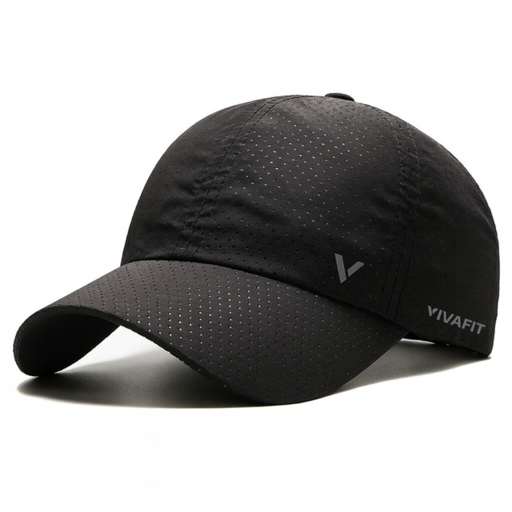
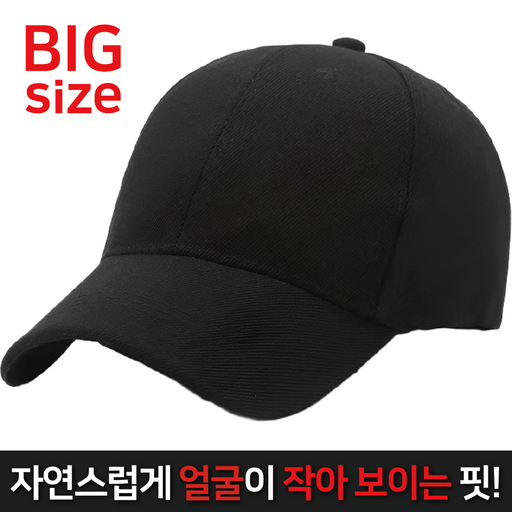
Add new landing page: 모자

diff --git a/src/app/moja/page.tsx b/src/app/moja/page.tsx
@@ -1,65 +1,72 @@
 import { Metadata } from "next";
 
 export const metadata: Metadata = {
-  title: "비바핏 남녀공용 무지 스포츠 메쉬 대두 볼캡 모자 솔직 후기: 큰 머리도 편안하게!",
-  description: "큰 머리도 걱정 없는 비바핏 대두 볼캡! 스포츠 활동부터 일상까지, 시원하고 편안한 착용감을 선사하는 무지 메쉬 모자 실사용 후기를 확인하세요.",
-  keywords: ["모자", "볼캡", "대두 볼캡", "스포츠 모자", "메쉬 모자", "비바핏 모자", "남녀공용 모자", "여름 모자"],
+  title: "이더커머스 남녀공용 빅사이즈 무지 대두 볼캡 솔직 후기: 큰 머리도 편안하게!",
+  description: "큰 머리 때문에 모자 선택이 어려우셨나요? 이더커머스 빅사이즈 무지 볼캡을 직접 사용해보고 솔직한 착용감과 장단점을 공유합니다. 넉넉한 핏과 가성비, 로켓배송까지!",
+  keywords: ["모자", "볼캡", "빅사이즈 모자", "대두 볼캡", "무지 볼캡", "이더커머스 모자", "쿠팡 모자", "가성비 모자", "남녀공용 모자"],
   robots: { index: true, follow: true },
-  alternates: { canonical: "https://yeongyangje-coupang.vercel.app/moja" },
+  alternates: { canonical: "https://www.dmcmusic.co.kr/moja" },
   openGraph: {
-    type: "article",
+    type: "website",
     locale: "ko_KR",
-    siteName: "비바핏 남녀공용 무지 스포츠 메쉬 대두 볼캡 모자",
-    title: "비바핏 남녀공용 무지 스포츠 메쉬 대두 볼캡 모자 솔직 후기: 큰 머리도 편안하게!",
-    description: "큰 머리도 걱정 없는 비바핏 대두 볼캡! 스포츠 활동부터 일상까지, 시원하고 편안한 착용감을 선사하는 무지 메쉬 모자 실사용 후기를 확인하세요.",
-    url: "https://yeongyangje-coupang.vercel.app/moja",
-    images: [{ url: "https://yeongyangje-coupang.vercel.app/images/coupang/moja/product.jpg" }],
+    siteName: "모자",
+    title: "이더커머스 남녀공용 빅사이즈 무지 대두 볼캡 솔직 후기: 큰 머리도 편안하게!",
+    description: "큰 머리 때문에 모자 선택이 어려우셨나요? 이더커머스 빅사이즈 무지 볼캡을 직접 사용해보고 솔직한 착용감과 장단점을 공유합니다. 넉넉한 핏과 가성비, 로켓배송까지!",
+    url: "https://www.dmcmusic.co.kr/moja",
+    images: [{ url: "https://www.dmcmusic.co.kr/images/coupang/moja/product.jpg" }],
   },
   twitter: {
     card: "summary_large_image",
-    title: "비바핏 남녀공용 무지 스포츠 메쉬 대두 볼캡 모자 솔직 후기: 큰 머리도 편안하게!",
-    description: "큰 머리도 걱정 없는 비바핏 대두 볼캡! 스포츠 활동부터 일상까지, 시원하고 편안한 착용감을 선사하는 무지 메쉬 모자 실사용 후기를 확인하세요.",
-    images: ["https://yeongyangje-coupang.vercel.app/images/coupang/moja/product.jpg"],
+    title: "이더커머스 남녀공용 빅사이즈 무지 대두 볼캡 솔직 후기: 큰 머리도 편안하게!",
+    description: "큰 머리 때문에 모자 선택이 어려우셨나요? 이더커머스 빅사이즈 무지 볼캡을 직접 사용해보고 솔직한 착용감과 장단점을 공유합니다. 넉넉한 핏과 가성비, 로켓배송까지!",
+    images: ["https://www.dmcmusic.co.kr/images/coupang/moja/product.jpg"],
   },
 };
 
 const jsonLd = {
   "@context": "https://schema.org",
-  "@graph": [
-    {
-      "@type": "Product",
-      "name": "비바핏 남녀공용 무지 스포츠 메쉬 대두 볼캡 모자",
-      "image": "https://yeongyangje-coupang.vercel.app/images/coupang/moja/product.jpg",
-      "description": "큰 머리도 걱정 없는 비바핏 대두 볼캡! 스포츠 활동부터 일상까지, 시원하고 편안한 착용감을 선사하는 무지 메쉬 모자 실사용 후기를 확인하세요.",
-      "offers": {
-        "@type": "Offer",
-        "price": 19900,
-        "priceCurrency": "KRW",
-        "availability": "https://schema.org/InStock",
-        "url": "https://link.coupang.com/re/AFFSDP?lptag=AF4771282&pageKey=8966171675&itemId=27530252819&vendorItemId=94501633714&traceid=V0-153-3edf3f34eeb1327c&clickBeacon=5405ef70-6ee4-11f1-8d93-e1b9eb821c6c%7E3&requestid=20260623181716620283668277&token=31850C%7CMIXED"
+  "@type": "WebPage",
+  "name": "이더커머스 남녀공용 빅사이즈 무지 대두 볼캡 솔직 후기: 큰 머리도 편안하게!",
+  "description": "큰 머리 때문에 모자 선택이 어려우셨나요? 이더커머스 빅사이즈 무지 볼캡을 직접 사용해보고 솔직한 착용감과 장단점을 공유합니다. 넉넉한 핏과 가성비, 로켓배송까지!",
+  "url": "https://www.dmcmusic.co.kr/moja",
+  "inLanguage": "ko-KR",
+  "isPartOf": {
+    "@type": "WebSite",
+    "name": "모자",
+    "url": "https://www.dmcmusic.co.kr"
+  },
+  "mainEntity": {
+    "@type": "FAQPage",
+    "mainEntity": [
+      {
+        "@type": "Question",
+        "name": "Q: 정말 머리 큰 사람도 편하게 쓸 수 있나요?",
+        "acceptedAnswer": {
+          "@type": "Answer",
+          "text": "A: 네, 저도 머리 둘레가 큰 편인데 전혀 조임 없이 편안하게 착용했습니다. 조절 스트랩도 넉넉해서 웬만한 빅사이즈 두상에는 모두 잘 맞을 거예요."
+        }
+      },
+      {
+        "@type": "Question",
+        "name": "Q: 소재는 어떤가요? 가격이 저렴해서 걱정되네요.",
+        "acceptedAnswer": {
+          "@type": "Answer",
+          "text": "A: 면 100% 소재로 부드럽고 가벼운 편입니다. 아주 두껍거나 고급스러운 느낌은 아니지만, 땀 흡수도 잘 되고 통기성도 괜찮아서 데일리로 부담 없이 사용하기 좋습니다. 가격 대비 만족스러운 퀄리티입니다."
+        }
+      },
+      {
+        "@type": "Question",
+        "name": "Q: 사계절 착용이 가능할까요?",
+        "acceptedAnswer": {
+          "@type": "Answer",
+          "text": "A: 소재가 너무 두껍지 않아 봄, 여름, 가을에 특히 좋습니다. 한겨울에는 다소 얇게 느껴질 수 있지만, 실내나 가벼운 외출 시에는 충분히 착용 가능합니다. 여름철 햇빛 가리기에는 아주 적합합니다."
+        }
       }
-    },
-    {
-      "@type": "Review",
-      "itemReviewed": {
-        "@type": "Product",
-        "name": "비바핏 남녀공용 무지 스포츠 메쉬 대두 볼캡 모자"
-      },
-      "reviewRating": {
-        "@type": "Rating",
-        "ratingValue": 4.3,
-        "bestRating": 5
-      },
-      "author": {
-        "@type": "Person",
-        "name": "실사용 리뷰어"
-      },
-      "reviewBody": "비바핏 남녀공용 무지 스포츠 메쉬 대두 볼캡 모자는 '대두핏'이라는 이름에 걸맞게 편안함과 실용성을 모두 잡은 제품이라고 생각해요. 착용감, 통기성, 디자인 모두 만족스러웠고, 특히 저처럼 모자 선택에 어려움을 겪으셨던 분들에게는 정말 좋은 대안이 될 것 같습니다. 19,900원이라는 합리적인 가격에 로켓배송으로 빠르게 받아볼 수 있다는 점도 큰 장점이에요. 여름 모자로 강력 추천합니다!"
-    }
-  ]
+    ]
+  }
 };
-const pageStyles = ":root {\n  --bg: #faf8f4;\n  --card: #ffffff;\n  --text: #1c1917;\n  --muted: #78716c;\n  --accent: #e23744;\n  --accent-dark: #c62828;\n  --border: #e8dfd4;\n  --pro: #15803d;\n  --con: #b45309;\n}\n.coupang-review-root { box-sizing: border-box; }\n.coupang-review-root * { box-sizing: border-box; }\n.coupang-review-root {\n  font-family: \"Noto Sans KR\", sans-serif;\n  background: var(--bg);\n  color: var(--text);\n  line-height: 1.7;\n  padding-bottom: 5rem;\n  min-height: 100vh;\n}\n.partner-notice {\n  background: #fff8e6;\n  border-bottom: 1px solid #f0e0b0;\n  color: #6b5a2a;\n  font-size: 0.82rem;\n  text-align: center;\n  padding: 0.7rem 1rem;\n  line-height: 1.5;\n}\n.coupang-review-root .container { max-width: 760px; margin: 0 auto; padding: 1.25rem; }\n.coupang-review-root .hero {\n  background: var(--card);\n  border: 1px solid var(--border);\n  border-radius: 16px;\n  overflow: hidden;\n  box-shadow: 0 8px 30px rgba(0,0,0,.06);\n}\n.coupang-review-root .hero-img {\n  width: 100%;\n  aspect-ratio: 1;\n  object-fit: contain;\n  background: #fff;\n  display: block;\n}\n.coupang-review-root .hero-body { padding: 1.5rem; }\n.coupang-review-root .eyebrow {\n  font-size: .75rem;\n  letter-spacing: .08em;\n  text-transform: uppercase;\n  color: var(--muted);\n  margin-bottom: .5rem;\n}\n.coupang-review-root h1 {\n  font-size: 1.5rem;\n  line-height: 1.35;\n  margin: 0 0 .75rem;\n  font-weight: 700;\n}\n.coupang-review-root .price { font-size: 1.25rem; font-weight: 700; color: var(--accent); margin-bottom: .75rem; }\n.coupang-review-root .badges { display: flex; gap: .5rem; flex-wrap: wrap; margin-bottom: 1rem; }\n.coupang-review-root .badge {\n  font-size: .75rem;\n  padding: .25rem .6rem;\n  border-radius: 999px;\n  background: #fff5f5;\n  color: var(--accent);\n  border: 1px solid #fecaca;\n}\n.coupang-review-root .rating {\n  display: flex;\n  align-items: center;\n  gap: .5rem;\n  color: #f59e0b;\n  font-weight: 600;\n  margin-bottom: 1rem;\n}\n.coupang-review-root .lead { color: var(--muted); font-size: 1rem; }\n.coupang-review-root .cta {\n  display: inline-flex;\n  align-items: center;\n  justify-content: center;\n  width: 100%;\n  margin-top: 1rem;\n  padding: .95rem 1.25rem;\n  border-radius: 12px;\n  background: var(--accent);\n  color: #fff;\n  font-weight: 700;\n  text-decoration: none;\n  transition: background .2s;\n}\n.coupang-review-root .cta:hover { background: var(--accent-dark); }\n.coupang-review-root section {\n  margin-top: 1.5rem;\n  background: var(--card);\n  border: 1px solid var(--border);\n  border-radius: 16px;\n  padding: 1.5rem;\n}\n.coupang-review-root h2 { font-size: 1.15rem; margin: 0 0 1rem; }\n.coupang-review-root p { margin: 0 0 1rem; }\n.coupang-review-root p:last-child { margin-bottom: 0; }\n.coupang-review-root .pros-cons { display: grid; gap: 1rem; }\n@media (min-width: 640px) { .coupang-review-root .pros-cons { grid-template-columns: 1fr 1fr; } }\n.coupang-review-root .pros h3 { color: var(--pro); }\n.coupang-review-root .cons h3 { color: var(--con); }\n.coupang-review-root ul { margin: 0; padding-left: 1.1rem; }\n.coupang-review-root li { margin-bottom: .4rem; }\n.coupang-review-root .faq-item {\n  border-top: 1px solid var(--border);\n  padding: .9rem 0;\n}\n.coupang-review-root .faq-item summary {\n  cursor: pointer;\n  font-weight: 600;\n  list-style: none;\n}\n.coupang-review-root .faq-item summary::-webkit-details-marker { display: none; }\n.coupang-review-root .float-bar {\n  position: fixed;\n  left: 0; right: 0; bottom: 0;\n  background: rgba(255,255,255,.96);\n  border-top: 1px solid var(--border);\n  backdrop-filter: blur(8px);\n  padding: .75rem 1rem calc(.75rem + env(safe-area-inset-bottom));\n  z-index: 50;\n}\n.coupang-review-root .float-bar a {\n  display: block;\n  text-align: center;\n  background: var(--accent);\n  color: #fff;\n  text-decoration: none;\n  font-weight: 700;\n  padding: .9rem;\n  border-radius: 12px;\n}";
-const pageHtml = "<div class=\"coupang-review-root\">\n  <p class=\"partner-notice\">\n    \uc774 \ud3ec\uc2a4\ud305\uc740 \ucfe0\ud321 \ud30c\ud2b8\ub108\uc2a4 \ud65c\ub3d9\uc758 \uc77c\ud658\uc73c\ub85c, \uc774\uc5d0 \ub530\ub978 \uc77c\uc815\uc561\uc758 \uc218\uc218\ub8cc\ub97c \uc81c\uacf5\ubc1b\uc2b5\ub2c8\ub2e4.\n  </p>\n  <div class=\"container\">\n    <article class=\"hero\">\n      <img class=\"hero-img\" src=\"/images/coupang/moja/product.jpg\" alt=\"\ube44\ubc14\ud54f \ub0a8\ub140\uacf5\uc6a9 \ubb34\uc9c0 \uc2a4\ud3ec\uce20 \uba54\uc26c \ub300\ub450 \ubcfc\ucea1 \ubaa8\uc790\" loading=\"eager\" />\n      <div class=\"hero-body\">\n        <p class=\"eyebrow\">\uc2e4\uc0ac\uc6a9 \ud6c4\uae30 \u00b7 2026</p>\n        <h1>\ube44\ubc14\ud54f \ub0a8\ub140\uacf5\uc6a9 \ubb34\uc9c0 \uc2a4\ud3ec\uce20 \uba54\uc26c \ub300\ub450 \ubcfc\ucea1 \ubaa8\uc790, \uc9c1\uc811 \uc368\ubcf4\ub2c8?</h1>\n        <p class=\"price\">19,900\uc6d0</p>\n        <div class=\"badges\"><span class=\"badge\">\ub85c\ucf13\ubc30\uc1a1</span></div>\n        <div class=\"rating\"><span>\u2605\u2605\u2605\u2605\u2606</span><span>4.3</span><span>\ud070 \uba38\ub9ac\ub3c4 \ud3b8\uc548\ud558\uac8c! \uc2dc\uc6d0\ud558\uace0 \uac00\ubcbc\uc6b4 \ub370\uc77c\ub9ac \uc2a4\ud3ec\uce20 \ubcfc\ucea1.</span></div>\n        <p class=\"lead\">\uc548\ub155\ud558\uc138\uc694! \uc624\ub298\uc740 \uc81c\uac00 \uc9c1\uc811 \uad6c\ub9e4\ud574\uc11c \uafb8\uc900\ud788 \uc0ac\uc6a9\ud558\uace0 \uc788\ub294 &#x27;\ube44\ubc14\ud54f \ub0a8\ub140\uacf5\uc6a9 \ubb34\uc9c0 \uc2a4\ud3ec\uce20 \uba54\uc26c \ub300\ub450 \ubcfc\ucea1 \ubaa8\uc790&#x27;\uc5d0 \ub300\ud55c \uc194\uc9c1\ud55c \ud6c4\uae30\ub97c \ub4e4\ub824\ub4dc\ub9ac\ub824\uace0 \ud569\ub2c8\ub2e4. \ud3c9\uc18c \ubaa8\uc790\ub97c \uc990\uaca8 \uc4f0\uc9c0\ub9cc, \uba38\ub9ac \ub458\ub808 \ub54c\ubb38\uc5d0 \ub298 \uace0\ubbfc\uc774\uc5c8\ub358 \uc800\uc5d0\uac8c \ud55c \uc904\uae30 \ube5b \uac19\uc558\ub358 \uc774 \ubaa8\uc790, \uacfc\uc5f0 \uc5b4\ub560\uc744\uae4c\uc694?</p>\n        <a class=\"cta\" href=\"https://link.coupang.com/re/AFFSDP?lptag=AF4771282&amp;pageKey=8966171675&amp;itemId=27530252819&amp;vendorItemId=94501633714&amp;traceid=V0-153-3edf3f34eeb1327c&amp;clickBeacon=5405ef70-6ee4-11f1-8d93-e1b9eb821c6c%7E3&amp;requestid=20260623181716620283668277&amp;token=31850C%7CMIXED\" target=\"_blank\" rel=\"noopener noreferrer sponsored\">\ucfe0\ud321\uc5d0\uc11c \ucd5c\uc800\uac00 \ud655\uc778\ud558\uae30</a>\n      </div>\n    </article>\n    <section><h2>\uc0c1\ud488 \uc18c\uac1c</h2><p>\ubaa8\uc790\ub294 \ud328\uc158 \uc544\uc774\ud15c\uc774\uae30\ub3c4 \ud558\uc9c0\ub9cc, \ud587\ube5b\uc744 \uac00\ub9ac\uac70\ub098 \uac00\ubcbc\uc6b4 \uc6b4\ub3d9 \uc2dc \ud544\uc218\ud15c\uc774\uae30\ub3c4 \ud558\uc8e0. \ud2b9\ud788 \uc800\ucc98\ub7fc \uba38\ub9ac\uac00 \ud070 \ud3b8\uc774\ub77c \uc2dc\uc911\uc5d0 \ub098\uc628 \ubaa8\uc790\ub4e4\uc774 \uc791\uac8c \ub290\uaef4\uc9c0\uc168\ub358 \ubd84\ub4e4\uc774\ub77c\uba74 \uc624\ub298 \ud6c4\uae30\uac00 \ub354\uc6b1 \ubc18\uac00\uc6b0\uc2e4 \uac70\uc608\uc694. \ube44\ubc14\ud54f \ub300\ub450 \ubcfc\ucea1, \uc5b4\ub5a4 \uc810\uc774 \uc88b\uace0 \uc544\uc26c\uc6e0\ub294\uc9c0 \uc790\uc138\ud788 \ud30c\ud5e4\uccd0 \ubcf4\uaca0\uc2b5\ub2c8\ub2e4!</p></section>\n    <section><h2>\uc9c1\uc811 \uc368 \ubcf8 \uc0ac\uc6a9 \uacbd\ud5d8</h2><p>\uc800\ub294 \uc8fc\ub85c \uc0b0\ucc45\uc774\ub098 \uac00\ubcbc\uc6b4 \uc870\uae45\uc744 \ud560 \ub54c, \uadf8\ub9ac\uace0 \uc8fc\ub9d0\uc5d0 \uce90\uc8fc\uc5bc\ud558\uac8c \uc678\ucd9c\ud560 \ub54c \uc774 \ubaa8\uc790\ub97c \ucc29\uc6a9\ud558\uace0 \uc788\uc5b4\uc694. \uac00\uc7a5 \ub9cc\uc871\uc2a4\ub7ec\uc6e0\ub358 \uc810\uc740 \uc5ed\uc2dc &#x27;\ub300\ub450\ud54f&#x27;\uc774\ub77c\ub294 \uc774\ub984\uac12 \uc81c\ub300\ub85c \ud558\ub294 \ub109\ub109\ud568\uc774\uc5c8\uc5b4\uc694. \ubcf4\ud1b5 \ubaa8\uc790\ub97c \uc4f0\uba74 \uadc0\uac00 \uc811\ud788\uac70\ub098 \uc774\ub9c8\uac00 \ub20c\ub824\uc11c \ubd88\ud3b8\ud588\ub294\ub370, \uc774 \ubaa8\uc790\ub294 \uadf8\ub7f0 \uac71\uc815 \uc5c6\uc774 \ud3b8\uc548\ud558\uac8c \uba38\ub9ac\ub97c \uac10\uc2f8\uc918\uc11c \uc88b\uc558\uc5b4\uc694. \ud1b5\uae30\uc131 \uc88b\uc740 \uba54\uc26c \uc18c\uc7ac \ub355\ubd84\uc5d0 \ub540\uc774 \ub098\ub3c4 \uae08\ubc29 \ub9c8\ub974\uace0, \ubc14\ub78c\uc774 \uc194\uc194 \ud1b5\ud574 \uc2dc\uc6d0\ud55c \ub290\ub08c\uc774 \ub4e4\uc5c8\uc2b5\ub2c8\ub2e4. \ud2b9\ud788 \uc5ec\ub984\ucca0 \uc57c\uc678 \ud65c\ub3d9 \uc2dc \uc815\ub9d0 \uc720\uc6a9\ud588\uc5b4\uc694. \ubb34\uc9c0 \ub514\uc790\uc778\uc774\ub77c \uc5b4\ub5a4 \uc637\uc5d0\ub3c4 \ubb34\ub09c\ud558\uac8c \uc798 \uc5b4\uc6b8\ub824\uc11c \ucf54\ub514 \uac71\uc815 \uc5c6\uc774 \uc190\uc774 \uc790\uc8fc \uac00\ub294 \uc544\uc774\ud15c\uc774 \ub418\uc5c8\ub2f5\ub2c8\ub2e4. \ub2e4\ub9cc, \ubc1d\uc740 \uc0c9\uc0c1\uc740 \uc624\uc5fc\uc5d0 \uc870\uae08 \ucde8\uc57d\ud560 \uc218 \uc788\uc73c\ub2c8 \uad00\ub9ac\uc5d0 \uc2e0\uacbd \uc4f0\ub294 \uac83\uc774 \uc88b\uc2b5\ub2c8\ub2e4.</p></section>\n    <section class=\"pros-cons\">\n      <div class=\"pros\"><h3>\ud83d\udc4d \uc7a5\uc810</h3><ul><li>\ub109\ub109\ud55c \ub300\ub450\ud54f: \uba38\ub9ac\uac00 \ud070 \ud3b8\uc778\ub370\ub3c4 \uc870\uc774\uac70\ub098 \ubd88\ud3b8\ud568 \uc5c6\uc774 \ud3b8\uc548\ud558\uac8c \ucc29\uc6a9 \uac00\ub2a5\ud574\uc694.</li>\n<li>\ub6f0\uc5b4\ub09c \ud1b5\uae30\uc131: \uba54\uc26c \uc18c\uc7ac \ub355\ubd84\uc5d0 \ub540\uc774 \ub098\ub3c4 \uc2dc\uc6d0\ud558\uace0 \ub2f5\ub2f5\ud568\uc774 \ub35c\ud569\ub2c8\ub2e4.</li>\n<li>\uac00\ubccd\uace0 \ud3b8\uc548\ud55c \ucc29\uc6a9\uac10: \uc7a5\uc2dc\uac04 \ucc29\uc6a9\ud574\ub3c4 \ubb34\uac8c\uac10\uc774 \uac70\uc758 \ub290\uaef4\uc9c0\uc9c0 \uc54a\uc544 \ubd80\ub2f4 \uc5c6\uc5b4\uc694.</li>\n<li>\ubb34\ub09c\ud55c \ub514\uc790\uc778: \uc2ec\ud50c\ud55c \ubb34\uc9c0 \ub514\uc790\uc778\uc774\ub77c \uc5b4\ub5a4 \uc637\ucc28\ub9bc\uc5d0\ub3c4 \uc798 \uc5b4\uc6b8\ub824 \ud65c\uc6a9\ub3c4\uac00 \ub192\uc544\uc694.</li></ul></div>\n      <div class=\"cons\"><h3>\ud83d\udc4e \uc544\uc26c\uc6b4 \uc810</h3><ul><li>\uc0c9\uc0c1 \uc120\ud0dd\uc758 \ud3ed\uc774 \uc881\uc74c: \ubb34\uc9c0 \ub514\uc790\uc778\uc740 \uc88b\uc9c0\ub9cc, \uc880 \ub354 \ub2e4\uc591\ud55c \uc0c9\uc0c1\uc774 \uc788\uc5c8\uc73c\uba74 \uc88b\uaca0\uc5b4\uc694.</li>\n<li>\uc138\ud0c1 \uc2dc \uc57d\uac04\uc758 \uc8fc\uc758 \ud544\uc694: \uba54\uc26c \uc18c\uc7ac\ub77c \uc870\uc2ec\uc2a4\ub7fd\uac8c \uc190\uc138\ud0c1\ud574\uc57c \ud615\ud0dc \ubcc0\ud615\uc744 \uc904\uc77c \uc218 \uc788\uc5b4\uc694.</li></ul></div>\n    </section>\n    <section><h2>\uc774\ub7f0 \ubd84\uaed8 \ucd94\ucc9c</h2><p>\uba38\ub9ac \ub458\ub808 \ub54c\ubb38\uc5d0 \uc77c\ubc18 \ubaa8\uc790\uac00 \ubd88\ud3b8\ud558\uc168\ub358 \ubd84, \uc57c\uc678 \ud65c\ub3d9\uc774\ub098 \uc2a4\ud3ec\uce20\ub97c \uc990\uae30\uc2dc\ub294 \ubd84, \uac00\ubccd\uace0 \ud1b5\uae30\uc131 \uc88b\uc740 \ubaa8\uc790\ub97c \ucc3e\uc73c\uc2dc\ub294 \ubd84, \uc2ec\ud50c\ud55c \ub514\uc790\uc778\uc73c\ub85c \ub370\uc77c\ub9ac \ubaa8\uc790\ub97c \uc6d0\ud558\uc2dc\ub294 \ubd84\uaed8 \uac15\ub825 \ucd94\ucc9c\ud569\ub2c8\ub2e4.</p></section>\n    <section><h2>\ucd1d\ud3c9</h2><p>\ube44\ubc14\ud54f \ub0a8\ub140\uacf5\uc6a9 \ubb34\uc9c0 \uc2a4\ud3ec\uce20 \uba54\uc26c \ub300\ub450 \ubcfc\ucea1 \ubaa8\uc790\ub294 &#x27;\ub300\ub450\ud54f&#x27;\uc774\ub77c\ub294 \uc774\ub984\uc5d0 \uac78\ub9de\uac8c \ud3b8\uc548\ud568\uacfc \uc2e4\uc6a9\uc131\uc744 \ubaa8\ub450 \uc7a1\uc740 \uc81c\ud488\uc774\ub77c\uace0 \uc0dd\uac01\ud574\uc694. \ucc29\uc6a9\uac10, \ud1b5\uae30\uc131, \ub514\uc790\uc778 \ubaa8\ub450 \ub9cc\uc871\uc2a4\ub7ec\uc6e0\uace0, \ud2b9\ud788 \uc800\ucc98\ub7fc \ubaa8\uc790 \uc120\ud0dd\uc5d0 \uc5b4\ub824\uc6c0\uc744 \uacaa\uc73c\uc168\ub358 \ubd84\ub4e4\uc5d0\uac8c\ub294 \uc815\ub9d0 \uc88b\uc740 \ub300\uc548\uc774 \ub420 \uac83 \uac19\uc2b5\ub2c8\ub2e4. 19,900\uc6d0\uc774\ub77c\ub294 \ud569\ub9ac\uc801\uc778 \uac00\uaca9\uc5d0 \ub85c\ucf13\ubc30\uc1a1\uc73c\ub85c \ube60\ub974\uac8c \ubc1b\uc544\ubcfc \uc218 \uc788\ub2e4\ub294 \uc810\ub3c4 \ud070 \uc7a5\uc810\uc774\uc5d0\uc694. \uc5ec\ub984 \ubaa8\uc790\ub85c \uac15\ub825 \ucd94\ucc9c\ud569\ub2c8\ub2e4!</p>\n      <a class=\"cta\" href=\"https://link.coupang.com/re/AFFSDP?lptag=AF4771282&amp;pageKey=8966171675&amp;itemId=27530252819&amp;vendorItemId=94501633714&amp;traceid=V0-153-3edf3f34eeb1327c&amp;clickBeacon=5405ef70-6ee4-11f1-8d93-e1b9eb821c6c%7E3&amp;requestid=20260623181716620283668277&amp;token=31850C%7CMIXED\" target=\"_blank\" rel=\"noopener noreferrer sponsored\">\uc9c0\uae08 \ucfe0\ud321\uc5d0\uc11c \uad6c\ub9e4\ud558\uae30</a>\n    </section>\n    <section><h2>\uc790\uc8fc \ubb3b\ub294 \uc9c8\ubb38</h2><details class=\"faq-item\">\n  <summary>\uc138\ud0c1\uc740 \uc5b4\ub5bb\uac8c \ud574\uc57c \ud558\ub098\uc694?</summary>\n  <p>\ucc2c\ubb3c\uc5d0 \uc911\uc131\uc138\uc81c\ub97c \uc0ac\uc6a9\ud558\uc5ec \uc190\uc138\ud0c1\ud558\ub294 \uac83\uc744 \uad8c\uc7a5\ud569\ub2c8\ub2e4. \ud615\ud0dc \ubcc0\ud615\uc744 \ub9c9\uae30 \uc704\ud574 \ube44\ud2c0\uc5b4 \uc9dc\uc9c0 \ub9c8\uc2dc\uace0, \uadf8\ub298\uc5d0\uc11c \ub215\ud600 \uac74\uc870\ud574\uc8fc\uc138\uc694.</p>\n</details>\n<details class=\"faq-item\">\n  <summary>\uc815\ub9d0 \uba38\ub9ac\uac00 \ud070 \uc0ac\ub78c\ub3c4 \ud3b8\ud558\uac8c \uc4f8 \uc218 \uc788\ub098\uc694?</summary>\n  <p>\ub124, \uc800\ub3c4 \uba38\ub9ac \ub458\ub808\uac00 \ud070 \ud3b8\uc778\ub370, \uc774 \ubaa8\uc790\ub294 \uae4a\uc774\uac10\uacfc \ub458\ub808\uac00 \ub109\ub109\ud574\uc11c \ubd88\ud3b8\ud568 \uc5c6\uc774 \ud3b8\uc548\ud558\uac8c \ucc29\uc6a9\ud560 \uc218 \uc788\uc5c8\uc2b5\ub2c8\ub2e4. \uc870\uc808 \uc2a4\ud2b8\ub7a9\uc73c\ub85c \uc0ac\uc774\uc988 \uc870\uc808\ub3c4 \uac00\ub2a5\ud574\uc694.</p>\n</details>\n<details class=\"faq-item\">\n  <summary>\uc2a4\ud3ec\uce20 \ud65c\ub3d9 \uc2dc\uc5d0\ub3c4 \uc801\ud569\ud55c\uac00\uc694?</summary>\n  <p>\ub124, \uba54\uc26c \uc18c\uc7ac\ub85c \ud1b5\uae30\uc131\uc774 \ub6f0\uc5b4\ub098\uace0 \uac00\ubcbc\uc6cc\uc11c \ub540\uc774 \ub9ce\uc774 \ub098\ub294 \uc2a4\ud3ec\uce20 \ud65c\ub3d9 \uc2dc\uc5d0\ub3c4 \ucf8c\uc801\ud558\uac8c \ucc29\uc6a9\ud560 \uc218 \uc788\uc2b5\ub2c8\ub2e4. \ub540 \ud761\uc218 \ubc0f \uac74\uc870\uac00 \ube60\ub978 \ud3b8\uc774\uc5d0\uc694.</p>\n</details></section>\n  </div>\n  <div class=\"float-bar\">\n    <a href=\"https://link.coupang.com/re/AFFSDP?lptag=AF4771282&amp;pageKey=8966171675&amp;itemId=27530252819&amp;vendorItemId=94501633714&amp;traceid=V0-153-3edf3f34eeb1327c&amp;clickBeacon=5405ef70-6ee4-11f1-8d93-e1b9eb821c6c%7E3&amp;requestid=20260623181716620283668277&amp;token=31850C%7CMIXED\" target=\"_blank\" rel=\"noopener noreferrer sponsored\">\ucfe0\ud321\uc5d0\uc11c \uad6c\ub9e4\ud558\uae30</a>\n  </div>\n</div>";
+const pageStyles = "\n.landing-gimpo {\n  --bg: #f7f4ef;\n  --surface: #ffffff;\n  --text: #1c1c1c;\n  --muted: #5c5c5c;\n  --accent: #c9a962;\n  --accent-light: #e8d5a8;\n  --accent-soft: #faf6ee;\n  --accent-hover: #b8923a;\n  --dark: #141414;\n  --border: #e8dfd0;\n  --header-bg: rgba(20,20,20,0.96);\n  --header-text: #ffffff;\n  --hero-overlay: linear-gradient(180deg, rgba(20,20,20,0.75) 0%, rgba(42,36,24,0.65) 100%);\n  --font-serif: 'Cormorant Garamond', 'Noto Serif KR', Georgia, serif;\n  --font-sans: 'Montserrat', 'Noto Sans KR', sans-serif;\n  --btn-radius: 2px;\n  --img-radius: 4px;\n  --btn-primary-bg: #c9a962;\n  --btn-primary-text: #141414;\n  --btn-outline-bg: #ffffff;\n  --btn-outline-text: #141414;\n  --btn-top-bg: #c9a962;\n  --btn-top-text: #141414;\n  --btn-call-bg: #2a2a2a;\n  --btn-call-text: #ffffff;\n  --btn-sticky-cta-bg: #c9a962;\n  --btn-sticky-cta-text: #141414;\n}\n.landing-gimpo .sticky-action-bar { background: rgba(20,20,20,0.97); border-top: 1px solid #3a3a3a; }\n.landing-gimpo .sticky-action-bar .btn-call { background: var(--btn-call-bg); color: var(--btn-call-text); border: 1px solid #555; }\n.landing-gimpo .sticky-action-bar .btn-cta { background: var(--btn-sticky-cta-bg); color: var(--btn-sticky-cta-text); }\n\n.lp-partner-notice {\n  margin: 0;\n  padding: 0.65rem 1rem;\n  background: #fff8e6;\n  border-bottom: 1px solid #f0e0b0;\n  color: #6b5a2a;\n  font-size: 0.82rem;\n  text-align: center;\n  line-height: 1.5;\n}\n.lp-root { min-height: 100vh; background: var(--bg); color: var(--text); font-family: var(--font-sans); line-height: 1.7; }\n.lp-root img { max-width: 100%; height: auto; display: block; }\n.lp-root a { text-decoration: none; color: inherit; transition: opacity 0.25s, color 0.25s; }\n.lp-root a:hover { opacity: 0.88; }\n\n.lp-header {\n  position: sticky; top: 0; z-index: 100;\n  background: var(--header-bg); backdrop-filter: blur(12px);\n  border-bottom: 1px solid var(--border);\n}\n.lp-header-inner {\n  max-width: 1200px; margin: 0 auto; padding: 0.75rem 1.5rem;\n  display: flex; align-items: center; justify-content: space-between; gap: 1rem;\n}\n.lp-brand { display: flex; flex-direction: column; line-height: 1.25; flex-shrink: 0; }\n.lp-brand-sub { font-size: 0.65rem; letter-spacing: 0.18em; text-transform: uppercase; color: var(--accent); font-weight: 600; }\n.lp-brand-main { font-family: var(--font-serif); font-size: 1.05rem; font-weight: 500; color: var(--header-text); }\n.lp-nav { display: flex; flex-wrap: wrap; align-items: center; justify-content: center; gap: 0.35rem 1.1rem; flex: 1; }\n.lp-nav a { font-size: 0.82rem; font-weight: 500; color: var(--header-text); opacity: 0.88; white-space: nowrap; }\n.lp-nav a:hover { color: var(--accent); opacity: 1; }\n.lp-nav-check { position: absolute; width: 1px; height: 1px; padding: 0; margin: -1px; overflow: hidden; clip: rect(0,0,0,0); border: 0; }\n.lp-nav-toggle {\n  display: none; align-items: center; justify-content: center;\n  width: 2.5rem; height: 2.5rem; padding: 0; border: 1px solid var(--border);\n  border-radius: var(--btn-radius); background: var(--surface); cursor: pointer; flex-shrink: 0;\n}\n.lp-nav-toggle-bar, .lp-nav-toggle-bar::before, .lp-nav-toggle-bar::after {\n  display: block; width: 1.15rem; height: 2px; background: var(--header-text); border-radius: 1px; position: relative;\n}\n.lp-nav-toggle-bar::before, .lp-nav-toggle-bar::after { content: \"\"; position: absolute; left: 0; }\n.lp-nav-toggle-bar::before { top: -6px; }\n.lp-nav-toggle-bar::after { top: 6px; }\n.lp-top-cta {\n  font-size: 0.82rem; font-weight: 700; color: var(--btn-top-text, #fff);\n  background: var(--btn-top-bg, var(--accent)); padding: 0.55rem 1rem; border-radius: var(--btn-radius);\n  white-space: nowrap; flex-shrink: 0;\n}\n.lp-top-cta:hover { opacity: 0.92; color: var(--btn-top-text, #fff); }\n\n.lp-hero { position: relative; min-height: clamp(420px, 72vh, 640px); display: flex; align-items: flex-end; overflow: hidden; }\n.lp-hero-bg {\n  position: absolute; inset: 0; background-size: cover; background-position: center;\n}\n.lp-hero-content {\n  position: relative; z-index: 1; max-width: 1200px; margin: 0 auto; padding: 3rem 1.5rem 3.5rem;\n  color: #fff; width: 100%;\n  text-shadow: 0 2px 16px rgba(0,0,0,0.65), 0 1px 4px rgba(0,0,0,0.45);\n}\n.lp-hero-badge {\n  display: inline-block; font-size: 0.72rem; font-weight: 600; letter-spacing: 0.22em;\n  text-transform: uppercase; color: #fff; margin-bottom: 1rem;\n}\n.lp-hero-area { font-size: 0.9rem; color: rgba(255,255,255,0.92); margin-bottom: 0.5rem; }\n.lp-hero h1 {\n  font-family: var(--font-serif); font-size: clamp(2rem, 5vw, 3.2rem);\n  font-weight: 400; line-height: 1.2; margin: 0 0 1rem; max-width: 720px;\n}\n.lp-hero h1 em { font-style: italic; color: #fff; }\n.lp-hero-lead { font-size: 1.02rem; line-height: 1.85; max-width: 580px; color: rgba(255,255,255,0.95); margin: 0 0 1.75rem; }\n.lp-hero-actions { display: flex; flex-wrap: wrap; gap: 0.75rem; }\n.lp-btn {\n  display: inline-block; padding: 0.85rem 1.6rem; font-weight: 600; font-size: 0.88rem;\n  border-radius: var(--btn-radius); letter-spacing: 0.04em;\n  text-shadow: none;\n}\n.lp-root a.lp-btn-primary {\n  background: var(--btn-primary-bg, var(--accent));\n  color: var(--btn-primary-text, #fff);\n}\n.lp-root a.lp-btn-outline {\n  background: var(--btn-outline-bg, rgba(255,255,255,0.95));\n  color: var(--btn-outline-text, var(--dark));\n  border: none;\n}\n.lp-root a.lp-btn-primary:hover {\n  opacity: 0.92;\n  color: var(--btn-primary-text, #fff);\n}\n.lp-root a.lp-btn-outline:hover {\n  opacity: 0.92;\n  color: var(--btn-outline-text, var(--dark));\n}\n.lp-top-cta:hover { opacity: 0.92; color: var(--btn-top-text, #fff); }\n\n.lp-container { max-width: 1200px; margin: 0 auto; padding: 0 1.5rem; }\n.lp-section { padding: clamp(3rem, 6vw, 5rem) 0; scroll-margin-top: 80px; }\n.lp-section-alt { background: var(--surface); }\n.lp-section-label {\n  font-size: 0.72rem; font-weight: 600; letter-spacing: 0.25em; text-transform: uppercase;\n  color: var(--accent); margin-bottom: 0.75rem;\n}\n.lp-section-title {\n  font-family: var(--font-serif); font-size: clamp(1.75rem, 3.5vw, 2.6rem);\n  font-weight: 400; line-height: 1.25; margin: 0 0 1rem;\n}\n.lp-section-title em { font-style: italic; color: var(--accent); }\n.lp-section-desc { color: var(--muted); max-width: 560px; line-height: 1.85; }\n\n.lp-about-grid {\n  display: grid; grid-template-columns: 1fr 1fr; gap: clamp(2rem, 4vw, 4rem); align-items: center;\n}\n.lp-about-image {\n  border-radius: var(--img-radius); overflow: hidden; box-shadow: 0 20px 50px rgba(0,0,0,0.12);\n  aspect-ratio: 4/5; object-fit: cover; width: 100%;\n}\n.lp-nearby {\n  margin-top: 1.25rem; padding: 1rem 1.2rem; background: var(--accent-soft);\n  border-radius: var(--img-radius); font-size: 0.92rem; color: var(--text);\n}\n.lp-nearby strong { color: var(--accent); display: block; margin-bottom: 0.5rem; }\n.lp-nearby-tags { display: flex; flex-wrap: wrap; gap: 0.4rem; }\n.lp-nearby-tag {\n  display: inline-block; padding: 0.3rem 0.65rem; font-size: 0.82rem;\n  background: var(--surface); border: 1px solid var(--border); border-radius: 999px; color: var(--muted);\n}\n\n.lp-regions-bar {\n  background: var(--surface); border-bottom: 1px solid var(--border);\n  padding: 0.85rem 0; scroll-margin-top: 80px;\n}\n.lp-regions-label {\n  margin: 0 0 0.65rem; font-size: 0.82rem; font-weight: 600; color: var(--muted);\n}\n.lp-regions-label span { color: var(--accent); }\n.lp-regions-scroll {\n  display: flex; gap: 0.5rem; overflow-x: auto; padding-bottom: 0.25rem;\n  -webkit-overflow-scrolling: touch; scrollbar-width: none;\n}\n.lp-regions-scroll::-webkit-scrollbar { display: none; }\n.lp-region-chip {\n  flex: 0 0 auto; display: inline-block; padding: 0.55rem 1rem;\n  font-size: 0.84rem; font-weight: 600; border-radius: 999px;\n  background: var(--btn-primary-bg, var(--accent));\n  color: var(--btn-primary-text, #fff);\n  border: 1px solid transparent; white-space: nowrap;\n}\n.lp-region-chip:hover { opacity: 0.9; color: var(--btn-primary-text, #fff); }\n.lp-region-chip.is-current {\n  background: var(--surface); color: var(--text);\n  border-color: var(--border); pointer-events: none;\n}\n\n.lp-features { display: grid; grid-template-columns: repeat(3, 1fr); gap: 1.25rem; }\n.lp-feature-card {\n  background: var(--surface); border: 1px solid var(--border); border-radius: var(--img-radius);\n  overflow: hidden; box-shadow: 0 8px 30px rgba(0,0,0,0.05);\n}\n.lp-feature-img { width: 100%; aspect-ratio: 4/3; object-fit: cover; }\n.lp-feature-body { padding: 1.25rem 1.35rem 1.5rem; }\n.lp-feature-num {\n  font-size: 0.7rem; font-weight: 700; letter-spacing: 0.15em; color: var(--accent); margin-bottom: 0.5rem;\n}\n.lp-feature-body h3 { font-size: 1.05rem; margin: 0; font-weight: 600; }\n\n.lp-gallery-grid {\n  display: grid; grid-template-columns: repeat(5, 1fr); gap: 12px;\n}\n.lp-gallery-item {\n  aspect-ratio: 1; overflow: hidden; border-radius: var(--img-radius);\n  border: 1px solid var(--border); background: var(--surface);\n}\n.lp-gallery-item img {\n  width: 100%; height: 100%; object-fit: cover; display: block;\n}\n\n.lp-reviews-grid { display: grid; grid-template-columns: repeat(3, 1fr); gap: 1.25rem; }\n.lp-review-card {\n  background: var(--surface); border: 1px solid var(--border); border-radius: var(--img-radius);\n  padding: 1.5rem 1.4rem; position: relative;\n}\n.lp-review-card::before {\n  content: \"\\201C\"; font-family: var(--font-serif); font-size: 3rem; line-height: 1;\n  color: var(--accent); opacity: 0.35; position: absolute; top: 0.5rem; left: 1rem;\n}\n.lp-review-card p { margin: 1.5rem 0 1rem; font-size: 0.95rem; line-height: 1.75; color: var(--text); }\n.lp-review-card footer { font-size: 0.82rem; color: var(--muted); }\n.lp-review-card footer span { display: block; color: var(--accent); margin-top: 0.2rem; font-weight: 500; }\n\n.lp-faq-list { max-width: 820px; }\n.lp-faq-item { border-bottom: 1px solid var(--border); padding: 1.25rem 0; }\n.lp-faq-item:first-child { border-top: 1px solid var(--border); }\n.lp-faq-item h3 { font-size: 1rem; margin: 0 0 0.45rem; font-weight: 600; }\n.lp-faq-item p { margin: 0; color: var(--muted); line-height: 1.75; font-size: 0.94rem; }\n\n.lp-footer {\n  background: var(--dark); color: rgba(255,255,255,0.55); text-align: center;\n  padding: 2.5rem 1.5rem; font-size: 0.85rem;\n}\n.lp-root.has-sticky-bar { padding-bottom: calc(84px + env(safe-area-inset-bottom)); }\n\n@media (max-width: 900px) {\n  .lp-header-inner {\n    flex-wrap: wrap; align-items: center; gap: 0.5rem 0.65rem;\n    padding: 0.65rem 1rem;\n  }\n  .lp-brand { max-width: calc(100% - 7.5rem); min-width: 0; }\n  .lp-brand-main { font-size: 0.95rem; overflow: hidden; text-overflow: ellipsis; white-space: nowrap; }\n  .lp-nav-toggle { display: inline-flex; margin-left: auto; order: 2; }\n  .lp-top-cta { order: 3; font-size: 0.72rem; padding: 0.48rem 0.75rem; max-width: 6.5rem; overflow: hidden; text-overflow: ellipsis; }\n  .lp-nav {\n    order: 4; flex: 1 0 100%; width: 100%;\n    display: none; flex-direction: column; align-items: stretch; gap: 0;\n    max-height: 0; overflow: hidden; padding: 0;\n    border-top: 0 solid var(--border); transition: max-height 0.25s ease, padding 0.25s ease;\n  }\n  .lp-nav a {\n    padding: 0.75rem 0.15rem; border-bottom: 1px solid var(--border);\n    font-size: 0.88rem; white-space: normal;\n  }\n  .lp-header-inner:has(.lp-nav-check:checked) .lp-nav {\n    display: flex; max-height: 320px; padding: 0.35rem 0 0.15rem;\n    border-top-width: 1px;\n  }\n  .lp-header-inner:has(.lp-nav-check:checked) .lp-nav-toggle { border-color: var(--accent); }\n  .lp-about-grid, .lp-features, .lp-reviews-grid { grid-template-columns: 1fr; }\n  .lp-gallery-grid { grid-template-columns: repeat(2, 1fr); }\n  .lp-section { scroll-margin-top: 72px; }\n}\n@media (max-width: 520px) {\n  .lp-gallery-grid { grid-template-columns: 1fr; }\n}\n\n.sticky-action-bar {\n  position: fixed; bottom: 0; left: 0; right: 0; z-index: 1000;\n  display: flex; gap: 8px; padding: 10px 12px;\n  padding-bottom: max(10px, env(safe-area-inset-bottom));\n  background: rgba(255,255,255,0.97);\n  border-top: 1px solid #ddd;\n  box-shadow: 0 -4px 24px rgba(0,0,0,0.12);\n}\n.sticky-action-bar a {\n  flex: 1; text-align: center; padding: 13px 10px; border-radius: 8px;\n  text-decoration: none; font-weight: 700; font-size: 0.92rem;\n  font-family: \"Noto Sans KR\", \"Segoe UI\", sans-serif;\n}\n.sticky-action-bar .btn-call { background: var(--btn-call-bg, #2563eb); color: var(--btn-call-text, #fff); }\n.sticky-action-bar .btn-cta { background: var(--btn-sticky-cta-bg, #0f172a); color: var(--btn-sticky-cta-text, #fff); }\n.lp-hero-bg { background-image: url(\"/images/coupang/moja/product.jpg\"); }";
+const pageHtml = "<div class=\"landing-gimpo lp-root has-sticky-bar\">\n    <p class=\"lp-partner-notice\">\uc774 \ud3ec\uc2a4\ud305\uc740 \ucfe0\ud321 \ud30c\ud2b8\ub108\uc2a4 \ud65c\ub3d9\uc758 \uc77c\ud658\uc73c\ub85c, \uc774\uc5d0 \ub530\ub978 \uc77c\uc815\uc561\uc758 \uc218\uc218\ub8cc\ub97c \uc81c\uacf5\ubc1b\uc2b5\ub2c8\ub2e4.</p>\n    <header class=\"lp-header\">\n      <div class=\"lp-header-inner\">\n        <a href=\"https://link.coupang.com/re/AFFSDP?lptag=AF4771282&amp;pageKey=8527077875&amp;itemId=24689706971&amp;vendorItemId=91711035282&amp;traceid=V0-153-8a3549376afa7b42&amp;requestid=20260623183535625061153596&amp;token=31850C%7CMIXED\" class=\"lp-brand\">\n          <span class=\"lp-brand-sub\">\ubaa8\uc790</span>\n          <span class=\"lp-brand-main\">\ubaa8\uc790</span>\n        </a>\n        <input type=\"checkbox\" id=\"lp-nav-open\" class=\"lp-nav-check\" aria-hidden=\"true\" tabindex=\"-1\" />\n        <label for=\"lp-nav-open\" class=\"lp-nav-toggle\" aria-label=\"\uba54\ub274 \uc5f4\uae30\"><span class=\"lp-nav-toggle-bar\"></span></label>\n        <nav class=\"lp-nav\" aria-label=\"\ud398\uc774\uc9c0 \uba54\ub274\"><a href=\"#lp-about\">\ubaa8\uc790 \uc18c\uac1c</a><a href=\"#lp-points\">\ubaa8\uc790 \ud575\uc2ec</a><a href=\"#lp-gallery\">\ubaa8\uc790 \uc0ac\uc9c4</a><a href=\"#lp-reviews\">\uc2e4\uc81c \uc774\uc6a9 \uacbd\ud5d8</a><a href=\"#lp-faq\">\ubaa8\uc790 FAQ</a></nav>\n        <a href=\"https://link.coupang.com/re/AFFSDP?lptag=AF4771282&amp;pageKey=8527077875&amp;itemId=24689706971&amp;vendorItemId=91711035282&amp;traceid=V0-153-8a3549376afa7b42&amp;requestid=20260623183535625061153596&amp;token=31850C%7CMIXED\" class=\"lp-top-cta\">\ucfe0\ud321\uc5d0\uc11c \ucd5c\uc800\uac00 \ud655\uc778\ud558\uae30</a>\n      </div>\n    </header>\n\n    <section class=\"lp-hero\" id=\"lp-hero\">\n      <div class=\"lp-hero-bg\"></div>\n      <div class=\"lp-hero-content\">\n        <span class=\"lp-hero-badge\">\ubaa8\uc790</span>\n        <p class=\"lp-hero-area\">\ubaa8\uc790 \uc9c0\uc5ed</p>\n        <h1>\ud070 \uba38\ub9ac\ub3c4 \uac71\uc815 \uc5c6\ub294 \uc774\ub354\ucee4\uba38\uc2a4 \ub0a8\ub140\uacf5\uc6a9 \ube45\uc0ac\uc774\uc988 \ubb34\uc9c0 \ub300\ub450 \ubcfc\ucea1, \uc9c1\uc811 <em>\uc368\ubcf4\ub2c8!</em></h1>\n        <p class=\"lp-hero-lead\">\uc800\ub294 \ud3c9\uc18c \ubaa8\uc790\ub97c \uc990\uaca8 \uc4f0\uc9c0\ub9cc, \uc77c\ubc18\uc801\uc778 \ubcfc\ucea1\uc740 \ub298 \uba38\ub9ac\uac00 \uc870\uc5ec \ubd88\ud3b8\ud568\uc744 \ub290\uaf08\uc2b5\ub2c8\ub2e4. \uadf8\ub7ec\ub2e4 \uc6b0\uc5f0\ud788 \ucfe0\ud321\uc5d0\uc11c \uc774\ub354\ucee4\uba38\uc2a4 \ube45\uc0ac\uc774\uc988 \ubb34\uc9c0 \ubcfc\ucea1\uc744 \ubc1c\uacac\ud588\uace0, '\ub300\ub450 \ubcfc\ucea1'\uc774\ub77c\ub294 \ubb38\uad6c\uc5d0 \uc774\ub04c\ub824 \ubc14\ub85c \uad6c\ub9e4\ud588\uc2b5\ub2c8\ub2e4. \ub85c\ucf13\ubc30\uc1a1\uc73c\ub85c \ub2e4\uc74c \ub0a0 \ubc1b\uc544\ubcf8 \ud6c4 \uc57d \uc77c\uc8fc\uc77c\uac04 \uafb8\uc900\ud788 \ucc29\uc6a9\ud574\ubcf8 \uacbd\ud5d8\uc744 \ubc14\ud0d5\uc73c\ub85c \uc7a5\ub2e8\uc810\uc744 \uaf3c\uaf3c\ud788 \ub9ac\ubdf0\ud574\ubcfc\uac8c\uc694.</p>\n        <div class=\"lp-hero-actions\"><a href=\"https://link.coupang.com/re/AFFSDP?lptag=AF4771282&amp;pageKey=8527077875&amp;itemId=24689706971&amp;vendorItemId=91711035282&amp;traceid=V0-153-8a3549376afa7b42&amp;requestid=20260623183535625061153596&amp;token=31850C%7CMIXED\" class=\"lp-btn lp-btn-outline\">\ucfe0\ud321\uc5d0\uc11c \ucd5c\uc800\uac00 \ud655\uc778\ud558\uae30</a></div>\n      </div>\n    </section>\n\n    <section class=\"lp-regions-bar\" id=\"lp-regions\">\n      <div class=\"lp-container\">\n        <p class=\"lp-regions-label\">\ub2e4\ub978 \uc9c0\uc5ed <span>\ubaa8\uc790</span> \ud398\uc774\uc9c0</p>\n        <div class=\"lp-regions-scroll\"><span class=\"lp-region-chip is-current\">\ubaa8\uc790</span></div>\n      </div>\n    </section>\n    <section class=\"lp-section\" id=\"lp-about\">\n      <div class=\"lp-container lp-about-grid\">\n        <div>\n          <p class=\"lp-section-label\">Intro</p>\n          <h2 class=\"lp-section-title\">\ubaa8\uc790 <em>\uc18c\uac1c</em></h2>\n          <p class=\"lp-section-desc\">\uc800\ub294 \ud3c9\uc18c \ubaa8\uc790\ub97c \uc990\uaca8 \uc4f0\uc9c0\ub9cc, \uc77c\ubc18\uc801\uc778 \ubcfc\ucea1\uc740 \ub298 \uba38\ub9ac\uac00 \uc870\uc5ec \ubd88\ud3b8\ud568\uc744 \ub290\uaf08\uc2b5\ub2c8\ub2e4. \uadf8\ub7ec\ub2e4 \uc6b0\uc5f0\ud788 \ucfe0\ud321\uc5d0\uc11c \uc774\ub354\ucee4\uba38\uc2a4 \ube45\uc0ac\uc774\uc988 \ubb34\uc9c0 \ubcfc\ucea1\uc744 \ubc1c\uacac\ud588\uace0, '\ub300\ub450 \ubcfc\ucea1'\uc774\ub77c\ub294 \ubb38\uad6c\uc5d0 \uc774\ub04c\ub824 \ubc14\ub85c \uad6c\ub9e4\ud588\uc2b5\ub2c8\ub2e4. \ub85c\ucf13\ubc30\uc1a1\uc73c\ub85c \ub2e4\uc74c \ub0a0 \ubc1b\uc544\ubcf8 \ud6c4 \uc57d \uc77c\uc8fc\uc77c\uac04 \uafb8\uc900\ud788 \ucc29\uc6a9\ud574\ubcf8 \uacbd\ud5d8\uc744 \ubc14\ud0d5\uc73c\ub85c \uc7a5\ub2e8\uc810\uc744 \uaf3c\uaf3c\ud788 \ub9ac\ubdf0\ud574\ubcfc\uac8c\uc694.</p>\n          \n        </div>\n        <div></div>\n      </div>\n    </section>\n\n    <section class=\"lp-section lp-section-alt\" id=\"lp-points\">\n      <div class=\"lp-container\">\n        <p class=\"lp-section-label\">Service</p>\n        <h2 class=\"lp-section-title\">\ubaa8\uc790 <em>\ud575\uc2ec</em></h2>\n        <div class=\"lp-features\">\n        </div>\n      </div>\n    </section>\n\n\n    <section class=\"lp-section lp-section-alt\" id=\"lp-reviews\">\n      <div class=\"lp-container\">\n        <p class=\"lp-section-label\">Voice</p>\n        <h2 class=\"lp-section-title\">\uc2e4\uc81c \uc774\uc6a9 <em>\uacbd\ud5d8</em></h2>\n        <div class=\"lp-reviews-grid\">\n        <blockquote class=\"lp-review-card\">\n          <p>\uc774 \ubaa8\uc790\ub97c \ucc98\uc74c \ucc29\uc6a9\ud588\uc744 \ub54c \uac00\uc7a5 \uc778\uc0c1 \uae4a\uc5c8\ub358 \uc810\uc740 \ubc14\ub85c '\ud3b8\uc548\ud568'\uc774\uc5c8\uc2b5\ub2c8\ub2e4. \uba38\ub9ac \ub458\ub808 60cm\uac00 \ub118\ub294 \uc800\uc5d0\uac8c\ub3c4 \ub109\ub109\ud558\uac8c \ub9de\uc558\uace0, \uc624\ub79c \uc2dc\uac04 \ucc29\uc6a9\ud574\ub3c4 \uc870\uc774\uac70\ub098 \ub2f5\ub2f5\ud55c \ub290\ub08c\uc774 \uc804\ud600 \uc5c6\uc5c8\uc2b5\ub2c8\ub2e4. \ud2b9\ud788 \ubaa8\uc790\ub97c \ubc97\uc5c8\uc744 \ub54c \uc774\ub9c8\uc5d0 \uc790\uad6d\uc774 \ub0a8\uc9c0 \uc54a\ub294\ub2e4\ub294 \uc810\uc774 \uc815\ub9d0 \uc88b\uc558\uc5b4\uc694. \ub370\uc77c\ub9ac\ub8e9\uc5d0 \ubb34\uc2ec\ud558\uac8c \uac78\uce58\uae30 \uc88b\uace0, \ud3b8\uc548\ud55c \uce90\uc8fc\uc5bc \ubcf5\uc7a5\uacfc\ub3c4 \ucc30\ub5a1\uad81\ud569\uc785\ub2c8\ub2e4. \ud587\ube5b\uc744 \uac00\ub9ac\ub294 \uc6a9\ub3c4\ub85c\ub3c4, \uafb8\ubbfc \ub4ef \uc548 \uafb8\ubbfc \ub4ef\ud55c '\uafb8\uc548\uafb8' \ud328\uc158 \uc544\uc774\ud15c\uc73c\ub85c\ub3c4 \uc190\uc0c9\uc774 \uc5c6\uc5c8\uc2b5\ub2c8\ub2e4.</p>\n          <footer>\uc2e4\uc0ac\uc6a9 \ud6c4\uae30<span>\uc774\ub354\ucee4\uba38\uc2a4 \ub0a8\ub140\uacf5\uc6a9 \ube45\uc0ac\uc774\uc988 \ubb34\uc9c0 \ub300\ub450 \ubcfc\ucea1</span></footer>\n        </blockquote>\n        <blockquote class=\"lp-review-card\">\n          <p>\uc774\ub354\ucee4\uba38\uc2a4 \ub0a8\ub140\uacf5\uc6a9 \ube45\uc0ac\uc774\uc988 \ubb34\uc9c0 \ub300\ub450 \ubcfc\ucea1\uc740 '\ube45\uc0ac\uc774\uc988'\ub77c\ub294 \uc774\ub984\uac12\uc744 \ud1a1\ud1a1\ud788 \ud558\ub294 \uc81c\ud488\uc785\ub2c8\ub2e4. 6,900\uc6d0\uc774\ub77c\ub294 \uac00\uaca9\uc5d0 \uc774 \uc815\ub3c4 \ucc29\uc6a9\uac10\uacfc \ud65c\uc6a9\ub3c4\ub97c \uc81c\uacf5\ud55c\ub2e4\ub294 \uc810\uc5d0\uc11c \uc800\ub294 \ub9e4\uc6b0 \ub9cc\uc871\ud588\uc2b5\ub2c8\ub2e4. \uc544\uc8fc \uace0\uae09\uc2a4\ub7ec\uc6b4 \ub290\ub08c\uc740 \uc544\ub2c8\uc9c0\ub9cc, \ub370\uc77c\ub9ac\ub85c \ud3b8\ud558\uac8c \uc4f8 \uac00\uc131\ube44 \uc88b\uc740 \ubcfc\ucea1\uc744 \ucc3e\ub294\ub2e4\uba74 \uac15\ub825 \ucd94\ucc9c\ud569\ub2c8\ub2e4!</p>\n          <footer>\ucd1d\ud3c9<span>\uc774\ub354\ucee4\uba38\uc2a4 \ub0a8\ub140\uacf5\uc6a9 \ube45\uc0ac\uc774\uc988 \ubb34\uc9c0 \ub300\ub450 \ubcfc\ucea1</span></footer>\n        </blockquote>\n        </div>\n      </div>\n    </section>\n\n    <section class=\"lp-section\" id=\"lp-faq\">\n      <div class=\"lp-container\">\n        <p class=\"lp-section-label\">FAQ</p>\n        <h2 class=\"lp-section-title\">\ubaa8\uc790 <em>FAQ</em></h2>\n        <div class=\"lp-faq-list\">\n        <div class=\"lp-faq-item\">\n          <h3>Q: \uc815\ub9d0 \uba38\ub9ac \ud070 \uc0ac\ub78c\ub3c4 \ud3b8\ud558\uac8c \uc4f8 \uc218 \uc788\ub098\uc694?</h3>\n          <p>A: \ub124, \uc800\ub3c4 \uba38\ub9ac \ub458\ub808\uac00 \ud070 \ud3b8\uc778\ub370 \uc804\ud600 \uc870\uc784 \uc5c6\uc774 \ud3b8\uc548\ud558\uac8c \ucc29\uc6a9\ud588\uc2b5\ub2c8\ub2e4. \uc870\uc808 \uc2a4\ud2b8\ub7a9\ub3c4 \ub109\ub109\ud574\uc11c \uc6ec\ub9cc\ud55c \ube45\uc0ac\uc774\uc988 \ub450\uc0c1\uc5d0\ub294 \ubaa8\ub450 \uc798 \ub9de\uc744 \uac70\uc608\uc694.</p>\n        </div>\n        <div class=\"lp-faq-item\">\n          <h3>Q: \uc18c\uc7ac\ub294 \uc5b4\ub5a4\uac00\uc694? \uac00\uaca9\uc774 \uc800\ub834\ud574\uc11c \uac71\uc815\ub418\ub124\uc694.</h3>\n          <p>A: \uba74 100% \uc18c\uc7ac\ub85c \ubd80\ub4dc\ub7fd\uace0 \uac00\ubcbc\uc6b4 \ud3b8\uc785\ub2c8\ub2e4. \uc544\uc8fc \ub450\uaecd\uac70\ub098 \uace0\uae09\uc2a4\ub7ec\uc6b4 \ub290\ub08c\uc740 \uc544\ub2c8\uc9c0\ub9cc, \ub540 \ud761\uc218\ub3c4 \uc798 \ub418\uace0 \ud1b5\uae30\uc131\ub3c4 \uad1c\ucc2e\uc544\uc11c \ub370\uc77c\ub9ac\ub85c \ubd80\ub2f4 \uc5c6\uc774 \uc0ac\uc6a9\ud558\uae30 \uc88b\uc2b5\ub2c8\ub2e4. \uac00\uaca9 \ub300\ube44 \ub9cc\uc871\uc2a4\ub7ec\uc6b4 \ud004\ub9ac\ud2f0\uc785\ub2c8\ub2e4.</p>\n        </div>\n        <div class=\"lp-faq-item\">\n          <h3>Q: \uc0ac\uacc4\uc808 \ucc29\uc6a9\uc774 \uac00\ub2a5\ud560\uae4c\uc694?</h3>\n          <p>A: \uc18c\uc7ac\uac00 \ub108\ubb34 \ub450\uaecd\uc9c0 \uc54a\uc544 \ubd04, \uc5ec\ub984, \uac00\uc744\uc5d0 \ud2b9\ud788 \uc88b\uc2b5\ub2c8\ub2e4. \ud55c\uaca8\uc6b8\uc5d0\ub294 \ub2e4\uc18c \uc587\uac8c \ub290\uaef4\uc9c8 \uc218 \uc788\uc9c0\ub9cc, \uc2e4\ub0b4\ub098 \uac00\ubcbc\uc6b4 \uc678\ucd9c \uc2dc\uc5d0\ub294 \ucda9\ubd84\ud788 \ucc29\uc6a9 \uac00\ub2a5\ud569\ub2c8\ub2e4. \uc5ec\ub984\ucca0 \ud587\ube5b \uac00\ub9ac\uae30\uc5d0\ub294 \uc544\uc8fc \uc801\ud569\ud569\ub2c8\ub2e4.</p>\n        </div>\n        </div>\n      </div>\n    </section>\n\n    <footer class=\"lp-footer\">\n      <p>&copy; \ubaa8\uc790. All rights reserved.</p>\n    </footer>\n    <div class=\"sticky-action-bar\"><a href=\"https://link.coupang.com/re/AFFSDP?lptag=AF4771282&amp;pageKey=8527077875&amp;itemId=24689706971&amp;vendorItemId=91711035282&amp;traceid=V0-153-8a3549376afa7b42&amp;requestid=20260623183535625061153596&amp;token=31850C%7CMIXED\" class=\"btn-cta\">\ucfe0\ud321\uc5d0\uc11c \ucd5c\uc800\uac00 \ud655\uc778\ud558\uae30</a></div>\n\n<script>\n(function () {\n  var toggle = document.getElementById(\"lp-nav-open\");\n  if (!toggle) return;\n  document.querySelectorAll(\".lp-nav a\").forEach(function (link) {\n    link.addEventListener(\"click\", function () { toggle.checked = false; });\n  });\n})();\n</script>\n  </div>";
 
 export default function Page() {
   return (